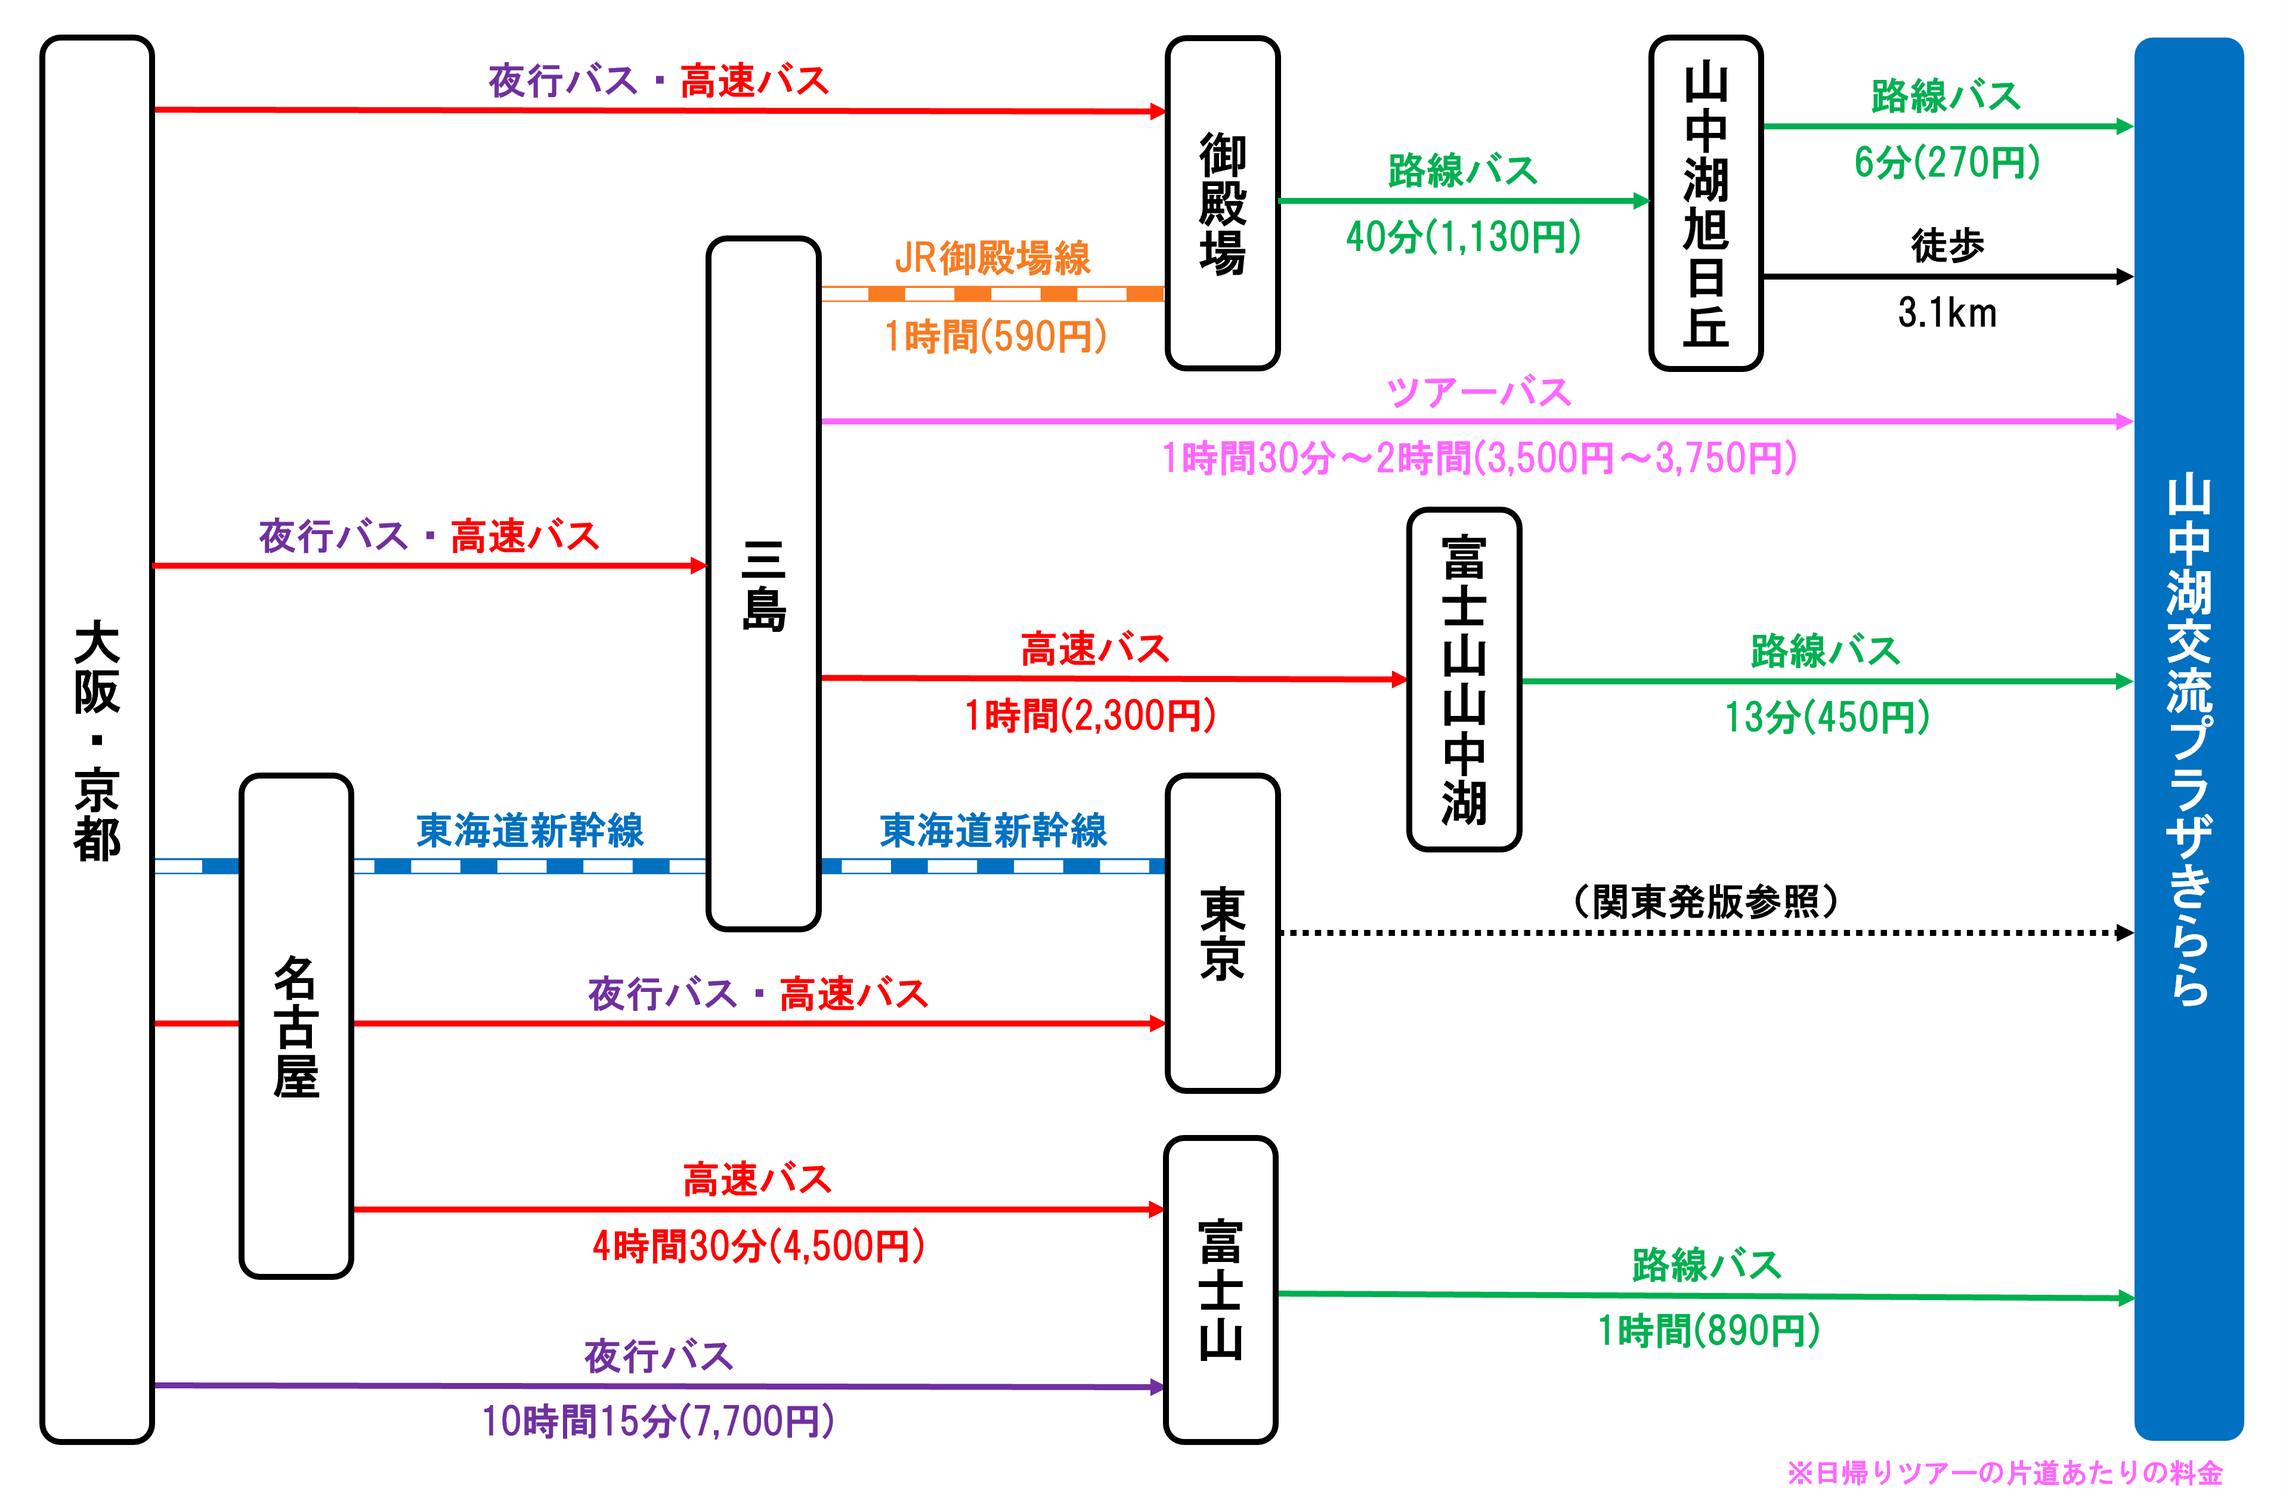
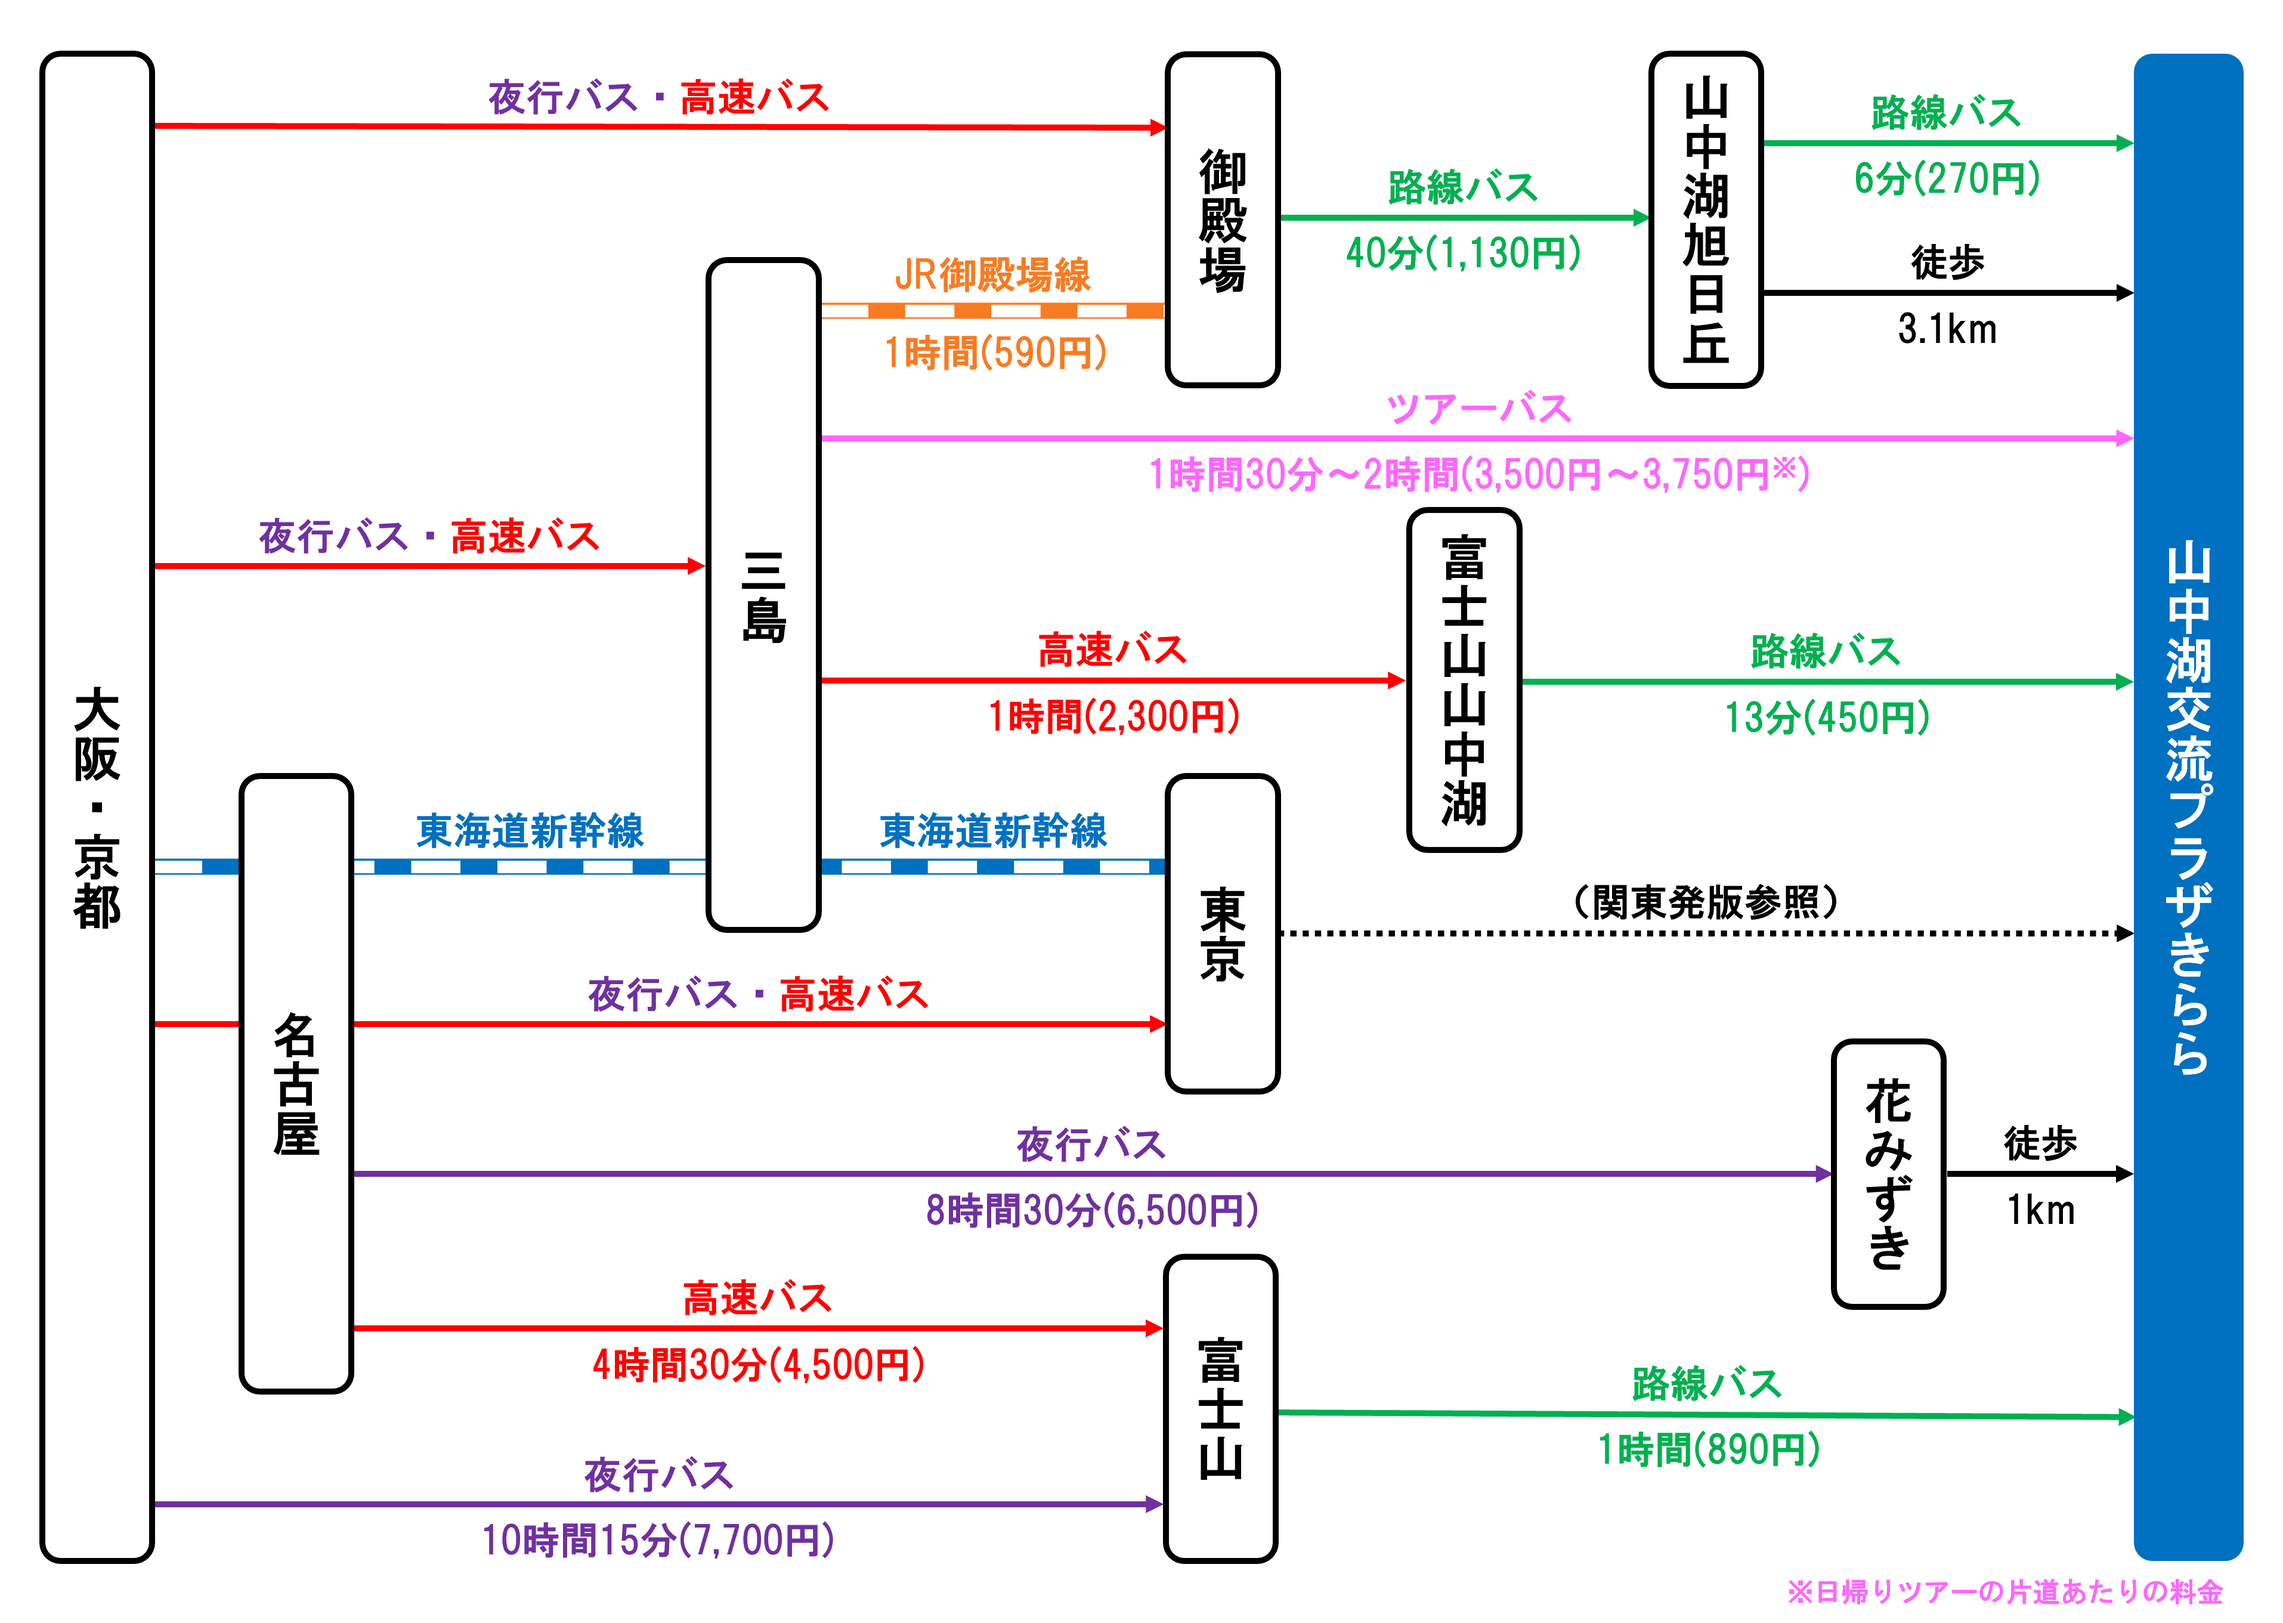
update

diff --git a/index.html b/index.html
@@ -72,6 +72,7 @@
             <span class="live-info-title">「FAMIEN 2025」</span>
             <p>【日程】<br>2025年8月16日(土)・17日(日)</p>
             <p>【会場】<br>山中湖交流プラザきらら シアターひびき</p>
+            <p><a href="https://www.shiritsuebichu.jp/famien2025/" class="external-link" target="_blank" rel="noopener noreferrer">「FAMIEN 2025」特設サイト</a></p>
         </div>
         <details class="toc-container">
             <summary class="toc-summary">目次</summary>
@@ -94,6 +95,7 @@
                             <li><a href="#express-yokohama-fujiyama">🚍横浜⇔山中湖旭日丘</a></li>
                             <li><a href="#express-mishima-fujiyama">🚍三島⇔富士山山中湖</a></li>
                             <li><a href="#express-nagoya-fujisan">🚍名古屋→富士山駅</a></li>
+                            <li><a href="#express-nagoya-hanamizuki">🌙🚍名古屋⇔花みずき</a></li>
                             <li><a href="#express-osaka-fujisan">🌙🚍大阪・京都⇔富士山駅</a></li>
                         </ul>
                     </li>
@@ -150,17 +152,18 @@
             <p>(↓路線をクリックすると詳細説明に移動します)</p>
             <img src="images/access-kansai.png" alt="関西発のアクセス図" usemap="#ImageMap2">
             <map name="ImageMap2">
-                <area shape="rect" coords="2958,119,3578,309" href="#bus-asahigaoka-kirara" alt="" />
-                <area shape="rect" coords="2145,239,2770,437" href="#bus-gotemba-asahigaoka" alt="" />
-                <area shape="rect" coords="1378,401,1952,601" href="#others-mishima-gotemba" alt="" />
-                <area shape="rect" coords="1374,630,3578,804" href="#bus-tour" alt="" />
-                <area shape="rect" coords="1379,1039,2356,1245" href="#express-mishima-fujiyama" alt="" />
-                <area shape="rect" coords="2553,1049,3583,1245" href="#bus-fujiyama-kirara" alt="" />
-                <area shape="rect" coords="265,1351,1956,1522" href="#shinkansen" alt="" />
-                <area shape="rect" coords="2147,1473,3578,1632" href="#access-kanto" alt="" />
-                <area shape="rect" coords="2141,2084,3579,2266" href="#bus-fujisan-kirara" alt="" />
-                <area shape="rect" coords="598,1934,1959,2122" href="#express-nagoya-fujisan" alt="" />
-                <area shape="rect" coords="257,2238,1951,2418" href="#express-osaka-fujisan" alt="" />
+                <area shape="rect" coords="2958,145,3580,346" href="#bus-asahigaoka-kirara" alt="" />
+                <area shape="rect" coords="2145,273,2770,466" href="#bus-gotemba-asahigaoka" alt="" />
+                <area shape="rect" coords="1374,417,1962,642" href="#others-mishima-gotemba" alt="" />
+                <area shape="rect" coords="1382,649,3579,850" href="#bus-tour" alt="" />
+                <area shape="rect" coords="1374,1049,2362,1245" href="#express-mishima-fujiyama" alt="" />
+                <area shape="rect" coords="2547,1055,3572,1248" href="#bus-fujiyama-kirara" alt="" />
+                <area shape="rect" coords="259,1340,1964,1554" href="#shinkansen" alt="" />
+                <area shape="rect" coords="2145,1457,3575,1666" href="#access-kanto" alt="" />
+                <area shape="rect" coords="598,1860,3076,2071" href="#express-nagoya-hanamizuki" alt="" />
+                <area shape="rect" coords="595,2126,1954,2327" href="#express-nagoya-fujisan" alt="" />
+                <area shape="rect" coords="2142,2284,3578,2471" href="#bus-fujisan-kirara" alt="" />
+                <area shape="rect" coords="257,2412,1948,2623" href="#express-osaka-fujisan" alt="" />
             </map>
         </section>
 
@@ -696,6 +699,104 @@
                 </table>
                  <p class="back-to-access"><a href="#access">アクセス図に戻る↑</a></p>
             </section>
+            <section id="express-nagoya-hanamizuki">
+                <h3>🌙🚍名古屋⇔花みずき</h3>
+                <a href="https://www.aozora-liner.co.jp/search/aichi_yamanashi/" class="external-link" target="_blank" rel="noopener noreferrer">青木バス</a>
+                <div class="booking-info">
+                    <p>不明</p>
+                </div>
+                
+                <table  class="time-table include-fare">
+                    <thead>
+                        <tr>
+                            <th>（行き）</th>
+                            <th>運賃</th>
+                            <th>山中湖行</th>
+                        </tr>
+                    </thead>
+                    <tbody>
+                        <tr>
+                            <th scope="row">朝倉駅</th>
+                            <td>6,500円</td>
+                            <td>22:30</td>
+                        </tr>
+                        <tr>
+                            <th scope="row">太田川駅</th>
+                            <td>6,500円</td>
+                            <td>22:45</td>
+                        </tr>
+                        <tr>
+                            <th scope="row">名古屋栄</th>
+                            <td>6,500円</td>
+                            <td>23:40</td>
+                        </tr>
+                        <tr>
+                            <th scope="row">名古屋駅</th>
+                            <td>6,500円</td>
+                            <td>24:00</td>
+                        </tr>
+                        <tr>
+                            <th scope="row">花みずき</th>
+                            <td>-</td>
+                            <td>8:30</td>
+                        </tr>
+                    </tbody>
+                </table>
+                <table  class="time-table include-fare">
+                    <thead>
+                        <tr>
+                            <th>（帰り）</th>
+                            <th>運賃</th>
+                            <th>名古屋行</th>
+                        </tr>
+                    </thead>
+                    <tbody>
+                        <tr>
+                            <th scope="row">花みずき</th>
+                            <td>-</td>
+                            <td>20:20</td>
+                        </tr>
+                        <tr>
+                            <th scope="row">名古屋栄</th>
+                            <td>6,500円</td>
+                            <td>5:10</td>
+                        </tr>
+                        <tr>
+                            <th scope="row">名古屋駅</th>
+                            <td>6,500円</td>
+                            <td>5:25</td>
+                        </tr>
+                        <tr>
+                            <th scope="row">太田川駅</th>
+                            <td>6,500円</td>
+                            <td>6:10</td>
+                        </tr>
+                        <tr>
+                            <th scope="row">朝倉駅</th>
+                            <td>6,500円</td>
+                            <td>6:15</td>
+                        </tr>
+                    </tbody>
+                </table>
+                <table class="distance-table">
+                    <thead>
+                        <tr>
+                            <th></th>
+                            <th>花みずき</th>
+                        </tr>
+                    </thead>
+                    <tbody>
+                        <tr>
+                            <th scope="row">会場入口まで</th>
+                            <td>1 km (<a href="https://maps.app.goo.gl/MoYon5tsm3MVNghv5" class="external-link" target="_blank" rel="noopener noreferrer">経路</a>)</td>
+                        </tr>
+                    </tbody>
+                </table>
+                <div class="callout">
+                    <p>夏季のみ運行。1日目終演後でも山中湖から脱出可能</p>
+                </div>
+                 <p class="back-to-access"><a href="#access">アクセス図に戻る↑</a></p>
+            </section>
             <section id="express-osaka-fujisan">
                 <h3>🌙🚍大阪・京都⇔富士山駅</h3>
                 <a href="https://www.kintetsu-bus.co.jp/highway/routelist/route_detail.php?no=14" class="external-link" target="_blank" rel="noopener noreferrer">近鉄バス</a>
@@ -917,7 +1018,8 @@
                 <h3>🚌山中湖旭日丘⇔会場</h3>
                 <img src="images/map-asahigaoka-kirara.png" alt="山中湖旭日丘⇔会場のバス路線図">
                 <a href="https://www.fujikyubus.co.jp/fujikko" class="external-link" target="_blank" rel="noopener noreferrer">ふじっ湖号</a><br>
-                <a href="https://yamanashi.buskita.com/#/search/result-list?language=1&siteId=12&departureBusstop=1483&arrivalBusstop=3539&departureCompany=fjb&arrivalCompany=fjb&transfer=false&targetTime=&kind=1" class="external-link" target="_blank" rel="noopener noreferrer">リアルタイム運行情報</a>
+                <a href="https://yamanashi.buskita.com/#/search/result-list?language=1&siteId=12&departureBusstop=1483&arrivalBusstop=3539&departureCompany=fjb&arrivalCompany=fjb&transfer=false&kind=1" class="external-link" target="_blank" rel="noopener noreferrer">リアルタイム運行情報(行き)</a><br>
+                <a href="https://yamanashi.buskita.com/#/search/result-list?language=1&siteId=12&departureBusstop=3539&arrivalBusstop=1483&departureCompany=fjb&arrivalCompany=fjb&transfer=false&kind=1" class="external-link" target="_blank" rel="noopener noreferrer">リアルタイム運行情報(帰り)</a>
                 
                 <table  class="time-table include-fare">
                     <thead>
@@ -1010,8 +1112,9 @@
                 <h3>🚌富士山山中湖⇔会場</h3>
                 <img src="images/map-fujiyama-kirara.png" alt="富士山山中湖⇔会場のバス路線図">
                 <a href="https://www.fujikyubus.co.jp/fujikko" class="external-link" target="_blank" rel="noopener noreferrer">ふじっ湖号</a><br>
-                <a href="https://yamanashi.buskita.com/#/search/result-list?language=1&siteId=12&departureBusstop=1449&arrivalBusstop=3539&departureCompany=fjb&arrivalCompany=fjb&transfer=false&targetTime=&kind=1" class="external-link" target="_blank" rel="noopener noreferrer">リアルタイム運行情報</a>
-                
+                <a href="https://yamanashi.buskita.com/#/search/result-list?language=1&siteId=12&departureBusstop=1449&arrivalBusstop=3539&departureCompany=fjb&arrivalCompany=fjb&transfer=false&targetTime=&kind=1" class="external-link" target="_blank" rel="noopener noreferrer">リアルタイム運行情報(行き)</a><br>
+                <a href="https://yamanashi.buskita.com/#/search/result-list?language=1&siteId=12&departureBusstop=3539&arrivalBusstop=1449&departureCompany=fjb&arrivalCompany=fjb&transfer=false&targetTime=&kind=1" class="external-link" target="_blank" rel="noopener noreferrer">リアルタイム運行情報(帰り)</a>
+
                 <table  class="time-table include-fare">
                     <thead>
                         <tr>
@@ -1159,8 +1262,9 @@
                 <h3>🚌富士山駅⇔会場</h3>
                 <img src="images/map-fujisan-kirara.png" alt="富士山駅⇔会場のバス路線図">
                 <a href="https://www.fujikyubus.co.jp/fujikko" class="external-link" target="_blank" rel="noopener noreferrer">ふじっ湖号</a><br>
-                <a href="https://yamanashi.buskita.com/#/search/result-list?language=1&siteId=12&departureBusstop=3&arrivalBusstop=3539&departureCompany=fjb&arrivalCompany=fjb&transfer=false&targetTime=&kind=1" class="external-link" target="_blank" rel="noopener noreferrer">リアルタイム運行情報</a>
-                
+                <a href="https://yamanashi.buskita.com/#/search/result-list?language=1&siteId=12&departureBusstop=3&arrivalBusstop=3539&departureCompany=fjb&arrivalCompany=fjb&transfer=false&targetTime=&kind=1" class="external-link" target="_blank" rel="noopener noreferrer">リアルタイム運行情報(行き)</a><br>
+                <a href="https://yamanashi.buskita.com/#/search/result-list?language=1&siteId=12&departureBusstop=3539&arrivalBusstop=3&departureCompany=fjb&arrivalCompany=fjb&transfer=false&targetTime=&kind=1" class="external-link" target="_blank" rel="noopener noreferrer">リアルタイム運行情報(帰り)</a>
+
                 <table  class="time-table include-fare">
                     <thead>
                         <tr>
